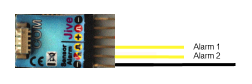
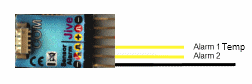
Jlog2 - fix configuration

diff --git a/JLog2/src/gde/device/smmodellbau/JLog2Configuration.java b/JLog2/src/gde/device/smmodellbau/JLog2Configuration.java
@@ -69,9 +69,9 @@ public class JLog2Configuration extends Composite {
 	private Text									mainExplanationText;
 
 	private Group									alarmGroup;
-	private CLabel								uBecDipDetectLabel, paTempMaxLabel, voltageLabel, mAhLabel, uBatMinAlarmLabel, capacityAlarmLabel;
+	private CLabel								uBecDipDetectLabel, fetTempMaxLabel, voltageLabel, mAhLabel, uBatMinAlarmLabel, capacityAlarmLabel;
 	private CLabel								temperaureLabel, temperaure1Label;
-	private CCombo								paTempMaxCombo, voltageBatteryAlarmDecimalsCombo, voltageBatteryAlarmCombo, capacityAlarmCombo;
+	private CCombo								fetTempMaxCombo, voltageBatteryAlarmDecimalsCombo, voltageBatteryAlarmCombo, capacityAlarmCombo;
 	private Button								alarmsClearButton, uBecDipDetectButton, ext1smallerButton, ext2smallerButton, ext3smallerButton, ext4smallerButton, ext5smallerButton;
 	private Button								speedSensorButton;
 	private CLabel								speedSensorLabel;
@@ -134,7 +134,7 @@ public class JLog2Configuration extends Composite {
 
 	final String[]			baudrates						= new String[] { "JIVE", "2400", "4800", "9600", "38400", "57600", "115200", "CMT" };																																												//$NON-NLS-1$
 	final String[]			sysModes						= new String[] { "NEWLOG", "SEQLOG" };																																																																				//$NON-NLS-1$ //$NON-NLS-2$
-	final String[]			logModes						= new String[] { "(0) OF/CSV", "(2) SER", "(8) JLV" };																																																												//$NON-NLS-1$ //$NON-NLS-2$ //$NON-NLS-3$
+	final String[]			logModes						= new String[] { "(0) OF/LV", "(2) SER", "(8) JLV" };																																																												//$NON-NLS-1$ //$NON-NLS-2$ //$NON-NLS-3$
 	final String[]			motorPols						= new String[] { "2", "4", "6", "8", "10", "12", "14", "16", "18", "20", "22", "24", "26", "38", "30", "32", "34", "36", "38", "40", "42", "44", "46", "48" };																																							//$NON-NLS-1$
 	final String[]			motorShuntAdjust		= new String[] { "-15", "-14", "-13", "-12", "-11", "-10", " -9", " -8", " -7", " -6", " -5", " -4", " -3", " -2", " -1", "  0", "  1", "  2", "  3", "  4", "  5", "  6", "  7", "  8", "  9", " 10", " 11", " 12", " 13", " 14", " 15" };	//$NON-NLS-1$
 	final String[]			zeroTo9							= new String[10];																																																																															;
@@ -571,7 +571,7 @@ public class JLog2Configuration extends Composite {
 				this.mpxAddressCombo = new CCombo(this, SWT.BORDER);
 				this.mpxAddressCombo.setLayoutData(mpxAddressComboLData);
 				this.mpxAddressCombo.setFont(SWTResourceManager.getFont(GDE.WIDGET_FONT_NAME, GDE.WIDGET_FONT_SIZE, SWT.NORMAL));
-				this.mpxAddressCombo.setItems(new String[] { " 2", " 3", " 4", " 5", " 6", " 7", " 8", " 9", " 10", " 11", " 12", " 13", " 14", " --" }); //$NON-NLS-1$
+				this.mpxAddressCombo.setItems(new String[] { " 2", " 3", " 4", " 5", " 6", " 7", " 8", " 9", " 10", " 11", " 12", " 13", " 14", " 15", " --" }); //$NON-NLS-1$
 				this.mpxAddressCombo.select(16);
 				this.mpxAddressCombo.setVisibleItemCount(10);
 				this.mpxAddressCombo.setEnabled(false);
@@ -581,9 +581,12 @@ public class JLog2Configuration extends Composite {
 						JLog2Configuration.log.log(java.util.logging.Level.FINEST, "mpxAddressCombo.widgetSelected, event=" + evt); //$NON-NLS-1$
 						int address = MpxAddressComposite.this.mpxAddressCombo.getSelectionIndex() + 2;
 						address = address > 14 ? 16 : address;
-						for (int i = 30; i < 16; i++) {
-							if (i-30 != index && configuration.get(i) == address) {
-								JLog2Configuration.this.application.openMessageDialog("Address already in use, select different!");
+						for (int i = 0; i < MpxAddressComposite.this.mpxAddressCombo.getItemCount()-1; i++) {
+							if (i != index && configuration.get(i+30) == address) {
+								JLog2Configuration.this.application.openMessageDialog(JLog2Configuration.this.dialog.getDialogShell(), "Address already in use, select different!");
+								MpxAddressComposite.this.mpxAddressCombo.select(14);
+								address = 16;
+								break;
 							}
 						}
 						switch (index) {
@@ -849,6 +852,8 @@ public class JLog2Configuration extends Composite {
 						@Override
 						public void widgetSelected(SelectionEvent evt) {
 							JLog2Configuration.log.log(java.util.logging.Level.FINEST, "jlogConfigurationCombo.widgetSelected, event=" + evt); //$NON-NLS-1$
+							if (JLog2Configuration.this.jlogConfigurationCombo.getSelectionIndex() > 0)
+								JLog2Configuration.this.application.openMessageDialogAsync(JLog2Configuration.this.dialog.getDialogShell(),Messages.getString(MessageIds.GDE_MSGI2826));
 							//0=normal, 1=HSS, 2=HSSG2, 3=HSST, 4=BH, 5=BM, 6=BHSS, 7=BHSST, 8=G, 9=S 10=L, 
 							//11=T, 12=GT, 13=V, 14=VG, 15=VS, 16=BID, 17=BIDG, 18=BIDS, 19=A, 20=AV, 21=B, 22=BV, 23=P1, 24=P2, 25=AVP1, 26=AP2
 							switch (JLog2Configuration.this.jlogConfigurationCombo.getSelectionIndex()) {
@@ -1675,35 +1680,35 @@ public class JLog2Configuration extends Composite {
 					this.voltageLabel.setText("[V]"); //$NON-NLS-1$
 				}
 				{
-					this.paTempMaxLabel = new CLabel(this.alarmGroup, SWT.NONE);
+					this.fetTempMaxLabel = new CLabel(this.alarmGroup, SWT.NONE);
 					RowData paTempMaxLabelLData = new RowData();
 					paTempMaxLabelLData.width = 106;
 					paTempMaxLabelLData.height = 20;
-					this.paTempMaxLabel.setLayoutData(paTempMaxLabelLData);
-					this.paTempMaxLabel.setFont(SWTResourceManager.getFont(GDE.WIDGET_FONT_NAME, GDE.WIDGET_FONT_SIZE, SWT.NORMAL));
-					this.paTempMaxLabel.setText(Messages.getString(MessageIds.GDE_MSGT2873));
+					this.fetTempMaxLabel.setLayoutData(paTempMaxLabelLData);
+					this.fetTempMaxLabel.setFont(SWTResourceManager.getFont(GDE.WIDGET_FONT_NAME, GDE.WIDGET_FONT_SIZE, SWT.NORMAL));
+					this.fetTempMaxLabel.setText(Messages.getString(MessageIds.GDE_MSGT2873));
 				}
 				{
-					this.paTempMaxCombo = new CCombo(this.alarmGroup, SWT.BORDER);
+					this.fetTempMaxCombo = new CCombo(this.alarmGroup, SWT.BORDER);
 					RowData paTempMaxComboLData = new RowData();
 					paTempMaxComboLData.width = GDE.IS_LINUX ? 55 : 45;
 					paTempMaxComboLData.height = 17;
-					this.paTempMaxCombo.setLayoutData(paTempMaxComboLData);
-					this.paTempMaxCombo.setFont(SWTResourceManager.getFont(GDE.WIDGET_FONT_NAME, GDE.WIDGET_FONT_SIZE, SWT.NORMAL));
-					this.paTempMaxCombo.setItems(this.zeroTo127);
-					this.paTempMaxCombo.select(0);
-					this.paTempMaxCombo.setVisibleItemCount(10);
-					this.paTempMaxCombo.addMouseMoveListener(new MouseMoveListener() {
+					this.fetTempMaxCombo.setLayoutData(paTempMaxComboLData);
+					this.fetTempMaxCombo.setFont(SWTResourceManager.getFont(GDE.WIDGET_FONT_NAME, GDE.WIDGET_FONT_SIZE, SWT.NORMAL));
+					this.fetTempMaxCombo.setItems(this.zeroTo127);
+					this.fetTempMaxCombo.select(0);
+					this.fetTempMaxCombo.setVisibleItemCount(10);
+					this.fetTempMaxCombo.addMouseMoveListener(new MouseMoveListener() {
 						public void mouseMove(MouseEvent evt) {
 							JLog2Configuration.log.log(java.util.logging.Level.FINEST, "paTempMaxCombo.mouseMove, event=" + evt); //$NON-NLS-1$
 							JLog2Configuration.this.mainExplanationText.setText(Messages.getString(MessageIds.GDE_MSGI2811));
 						}
 					});
-					this.paTempMaxCombo.addSelectionListener(new SelectionAdapter() {
+					this.fetTempMaxCombo.addSelectionListener(new SelectionAdapter() {
 						@Override
 						public void widgetSelected(SelectionEvent evt) {
 							JLog2Configuration.log.log(java.util.logging.Level.FINEST, "paTempMaxCombo.widgetSelected, event=" + evt); //$NON-NLS-1$
-							JLog2Configuration.this.configuration.setPaMaxTempAlarm(JLog2Configuration.this.paTempMaxCombo.getText().trim());
+							JLog2Configuration.this.configuration.setPaMaxTempAlarm(JLog2Configuration.this.fetTempMaxCombo.getText().trim());
 							checkNumberAlarms();
 							checkClearButtonState();
 							enableSaveSettings();
@@ -2235,6 +2240,7 @@ public class JLog2Configuration extends Composite {
 							JLog2Configuration.log.log(java.util.logging.Level.FINEST, "tempSensorTypeCombo.widgetSelected, event=" + evt); //$NON-NLS-1$
 							setTemperaturSensorType(JLog2Configuration.this.tempSensorTypeCombo.getSelectionIndex());
 							JLog2Configuration.this.configuration.setTemperaturSensorType(JLog2Configuration.this.tempSensorTypeCombo.getSelectionIndex());
+							checkNumberAlarms();
 							checkAdapterRequired();
 							enableSaveSettings();
 						}
@@ -2390,6 +2396,7 @@ public class JLog2Configuration extends Composite {
 						@Override
 						public void widgetSelected(SelectionEvent evt) {
 							JLog2Configuration.log.log(java.util.logging.Level.FINEST, "telemetryCombo.widgetSelected, event=" + evt); //$NON-NLS-1$
+							JLog2Configuration.this.application.openMessageDialogAsync(JLog2Configuration.this.dialog.getDialogShell(),Messages.getString(MessageIds.GDE_MSGI2820));
 							enableMpxAddressSelection(false);
 							JLog2Configuration.this.configuration.setTelemetryType(JLog2Configuration.this.telemetryCombo.getSelectionIndex());
 							switch (JLog2Configuration.this.telemetryCombo.getSelectionIndex()) {
@@ -2555,7 +2562,7 @@ public class JLog2Configuration extends Composite {
 			this.capacityAlarmCombo.select(config.get(12));
 			this.voltageBatteryAlarmCombo.select(config.get(13));
 			this.voltageBatteryAlarmDecimalsCombo.select(config.get(14));
-			this.paTempMaxCombo.select(config.get(15));
+			this.fetTempMaxCombo.select(config.get(15));
 		}
 		this.extern1Combo.select(config.get(17));
 		this.extern2Combo.select(config.get(18));
@@ -2579,22 +2586,22 @@ public class JLog2Configuration extends Composite {
 		setIsMotorButton((config.get(29) & 0x0004) > 0 && config.get(28) > 0);
 		this.extRpmButton.setEnabled((config.get(29) & 0x0004) > 0 && config.get(28) > 0);
 		setIsBrushlessMotor((config.get(29) & 0x0080) > 0 && (config.get(29) & 0x0004) > 0 && config.get(28) > 0);
-		this.mpxAddresses[0].mpxAddressCombo.select(config.get(30));
-		this.mpxAddresses[1].mpxAddressCombo.select(config.get(31));
-		this.mpxAddresses[2].mpxAddressCombo.select(config.get(32));
-		this.mpxAddresses[3].mpxAddressCombo.select(config.get(33));
-		this.mpxAddresses[4].mpxAddressCombo.select(config.get(34));
-		this.mpxAddresses[5].mpxAddressCombo.select(config.get(35));
-		this.mpxAddresses[6].mpxAddressCombo.select(config.get(36));
-		this.mpxAddresses[7].mpxAddressCombo.select(config.get(37));
-		this.mpxAddresses[8].mpxAddressCombo.select(config.get(38));
-		this.mpxAddresses[9].mpxAddressCombo.select(config.get(39));
-		this.mpxAddresses[10].mpxAddressCombo.select(config.get(40));
-		this.mpxAddresses[11].mpxAddressCombo.select(config.get(41));
-		this.mpxAddresses[12].mpxAddressCombo.select(config.get(42));
-		this.mpxAddresses[13].mpxAddressCombo.select(config.get(43));
-		this.mpxAddresses[14].mpxAddressCombo.select(config.get(44));
-		this.mpxAddresses[15].mpxAddressCombo.select(config.get(45));
+		this.mpxAddresses[0].mpxAddressCombo.select(config.get(30)-2);
+		this.mpxAddresses[1].mpxAddressCombo.select(config.get(31)-2);
+		this.mpxAddresses[2].mpxAddressCombo.select(config.get(32)-2);
+		this.mpxAddresses[3].mpxAddressCombo.select(config.get(33)-2);
+		this.mpxAddresses[4].mpxAddressCombo.select(config.get(34)-2);
+		this.mpxAddresses[5].mpxAddressCombo.select(config.get(35)-2);
+		this.mpxAddresses[6].mpxAddressCombo.select(config.get(36)-2);
+		this.mpxAddresses[7].mpxAddressCombo.select(config.get(37)-2);
+		this.mpxAddresses[8].mpxAddressCombo.select(config.get(38)-2);
+		this.mpxAddresses[9].mpxAddressCombo.select(config.get(39)-2);
+		this.mpxAddresses[10].mpxAddressCombo.select(config.get(40)-2);
+		this.mpxAddresses[11].mpxAddressCombo.select(config.get(41)-2);
+		this.mpxAddresses[12].mpxAddressCombo.select(config.get(42)-2);
+		this.mpxAddresses[13].mpxAddressCombo.select(config.get(43)-2);
+		this.mpxAddresses[14].mpxAddressCombo.select(config.get(44)-2);
+		this.mpxAddresses[15].mpxAddressCombo.select(config.get(45)-2);
 		//setTelemetryLivedata(config.get(46) & 0xFFF0);
 		if (isInitialLoad) {
 			setLogMode(config.get(2)); //enable/disables lots of combos
@@ -2605,6 +2612,7 @@ public class JLog2Configuration extends Composite {
 		catch (Exception e) {
 			//ignore, not relevant for this configuration
 		}
+		checkClearButtonState();
 	}
 
 	/**
@@ -2763,7 +2771,7 @@ public class JLog2Configuration extends Composite {
 		this.directGearRatioDecimalsCombo.setEnabled(isEnabled);
 		this.alarmsClearButton.setEnabled(isEnabled);
 		this.uBecDipDetectButton.setEnabled(isEnabled);
-		this.paTempMaxCombo.setEnabled(isEnabled);
+		this.fetTempMaxCombo.setEnabled(isEnabled);
 		this.voltageBatteryAlarmDecimalsCombo.setEnabled(isEnabled);
 		this.voltageBatteryAlarmCombo.setEnabled(isEnabled);
 		this.capacityAlarmCombo.setEnabled(isEnabled);
@@ -2815,12 +2823,13 @@ public class JLog2Configuration extends Composite {
 
 	private void checkNumberAlarms() {
 		int numAlarms = 0;
+		boolean isTemperatureSensorType = this.tempSensorTypeCombo.getSelectionIndex() > 0;
 
 		if (this.uBecDipDetectButton.getSelection()) ++numAlarms;
 		if (this.capacityAlarmCombo.getSelectionIndex() > 0) ++numAlarms;
 		if (this.voltageBatteryAlarmCombo.getSelectionIndex() > 0) ++numAlarms;
 		if (this.voltageBatteryAlarmDecimalsCombo.getSelectionIndex() > 0) ++numAlarms;
-		if (this.paTempMaxCombo.getSelectionIndex() > 0) ++numAlarms;
+		if (this.fetTempMaxCombo.getSelectionIndex() > 0) ++numAlarms;
 		if (this.extern1Combo.getSelectionIndex() > 0) ++numAlarms;
 		if (this.ext1smallerButton.getSelection()) ++numAlarms;
 		if (this.extern2Combo.getSelectionIndex() > 0) ++numAlarms;
@@ -2839,6 +2848,13 @@ public class JLog2Configuration extends Composite {
 			}
 			this.alarmLinesCombo.setItems(this.oneAlarms);
 		}
+		else if (isTemperatureSensorType && numAlarms > 1) {
+				if (this.alarmLinesCombo.getSelectionIndex() > 1)  {
+					this.alarmLinesCombo.select(1);
+					this.configuration.setNumberAlarmLines(1);
+				}
+				this.alarmLinesCombo.setItems(this.oneAlarms);
+		}
 		else if (numAlarms > 1)
 			this.alarmLinesCombo.setItems(this.greaterOneAlarms);
 		else {
@@ -2853,7 +2869,7 @@ public class JLog2Configuration extends Composite {
 
 	private void checkClearButtonState() {
 		if (this.uBecDipDetectButton.getSelection() || this.capacityAlarmCombo.getSelectionIndex() > 0 || this.voltageBatteryAlarmCombo.getSelectionIndex() > 0
-				|| this.voltageBatteryAlarmDecimalsCombo.getSelectionIndex() > 0 || this.paTempMaxCombo.getSelectionIndex() > 0 || this.extern1Combo.getSelectionIndex() > 0
+				|| this.voltageBatteryAlarmDecimalsCombo.getSelectionIndex() > 0 || this.fetTempMaxCombo.getSelectionIndex() > 0 || this.extern1Combo.getSelectionIndex() > 0
 				|| this.ext1smallerButton.getSelection() || this.extern2Combo.getSelectionIndex() > 0 || this.ext2smallerButton.getSelection() || this.extern3Combo.getSelectionIndex() > 0
 				|| this.ext3smallerButton.getSelection() || this.extern4Combo.getSelectionIndex() > 0 || this.ext4smallerButton.getSelection() || this.extern5Combo.getSelectionIndex() > 0
 				|| this.ext5smallerButton.getSelection()) {
@@ -2877,7 +2893,7 @@ public class JLog2Configuration extends Composite {
 		this.configuration.setBatteryAlarmMajor("0"); //$NON-NLS-1$
 		this.voltageBatteryAlarmCombo.select(0);
 		this.configuration.setBatteryAlarmDecimals("0"); //$NON-NLS-1$
-		this.paTempMaxCombo.select(0);
+		this.fetTempMaxCombo.select(0);
 		this.configuration.setPaMaxTempAlarm("0"); //$NON-NLS-1$
 		this.extern1Combo.select(0);
 		this.ext1smallerButton.setSelection(false);

diff --git a/JLog2/src/gde/device/smmodellbau/JLog2VisualizationControl.java b/JLog2/src/gde/device/smmodellbau/JLog2VisualizationControl.java
@@ -108,9 +108,11 @@ public class JLog2VisualizationControl extends Composite {
 			GridLayout mainTabCompositeLayout = new GridLayout();
 			mainTabCompositeLayout.makeColumnsEqualWidth = true;
 			mainTabCompositeLayout.numColumns = 2;
+			mainTabCompositeLayout.verticalSpacing = (this.measurementCount - 31 + 1) / 2 * 23 / (this.measurementCount - 31 + 1); //adapt while changing measurementCount, actual only 31
+			mainTabCompositeLayout.verticalSpacing = mainTabCompositeLayout.verticalSpacing < 0 ? 0 : mainTabCompositeLayout.verticalSpacing;
 			this.mainTabComposite.setLayout(mainTabCompositeLayout);
 
-			for (int i = this.measurementOffset; i < this.measurementOffset + this.measurementCount; i++) {
+			for (int i = this.measurementOffset; i < this.measurementOffset + 31; i++) { // display actual only the native 31 measurements of JLog2
 				//allow all measurement names, symbols and units to be correctable
 				this.measurementTypes.add(new MeasurementControlConfigurable(this.mainTabComposite, this.dialog, this.channelConfigNumber, i,
 						this.device.getChannelMeasuremts(this.channelConfigNumber).get(i), this.device, 1, GDE.STRING_BLANK + (i - this.measurementOffset), GDE.STRING_EMPTY));

diff --git a/JLog2/src/gde/device/smmodellbau/JLog2Dialog.java b/JLog2/src/gde/device/smmodellbau/JLog2Dialog.java
@@ -99,7 +99,6 @@ public class JLog2Dialog extends DeviceDialog {
 		this.serialPort = useDevice.getCommunicationPort();
 		this.settings = Settings.getInstance();
 		this.measurementsCount = Math.abs(this.device.getDataBlockSize(InputTypes.FILE_IO));
-		this.measurementsCount = 31; // reduce
 	}
 
 	@Override
@@ -163,7 +162,7 @@ public class JLog2Dialog extends DeviceDialog {
 					this.tabFolder.setSimple(false);
 					{
 						for (int i = 1; i <= this.device.getChannelCount(); i++) {
-							createVisualizationTabItem(i, this.measurementsCount);
+							createVisualizationTabItem(i, this.measurementsCount); 
 						}
 					}
 					{
